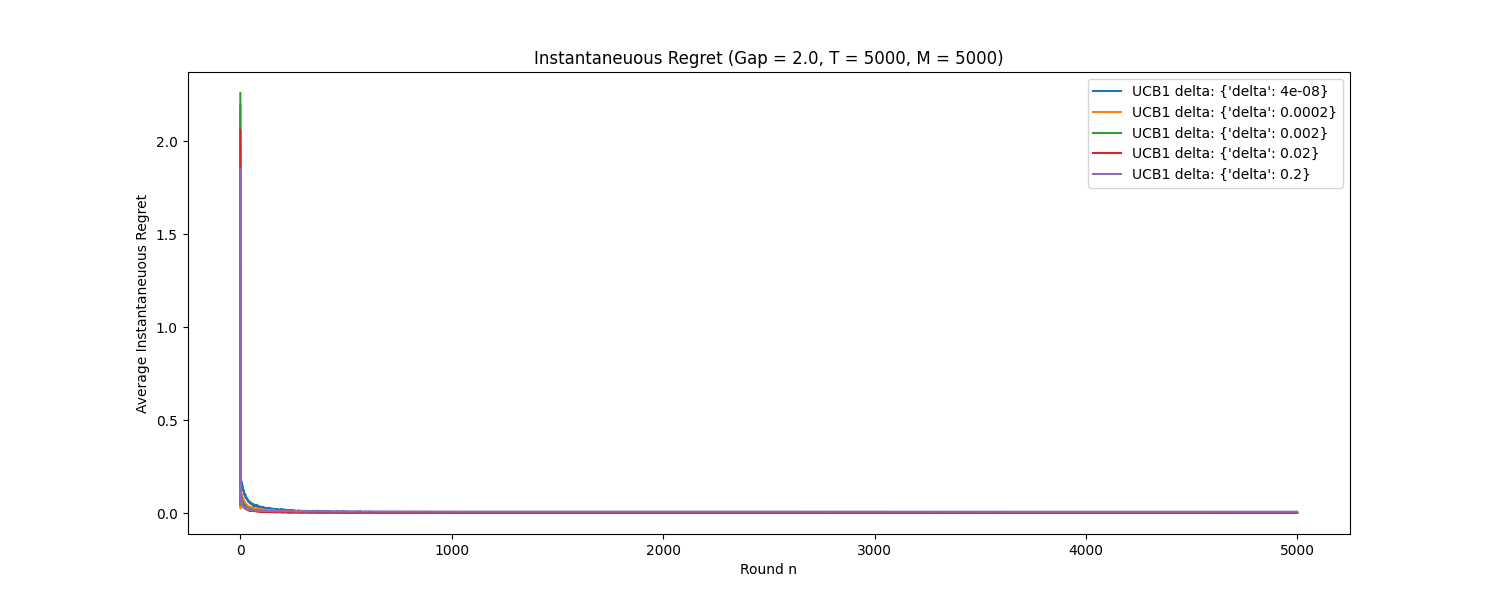
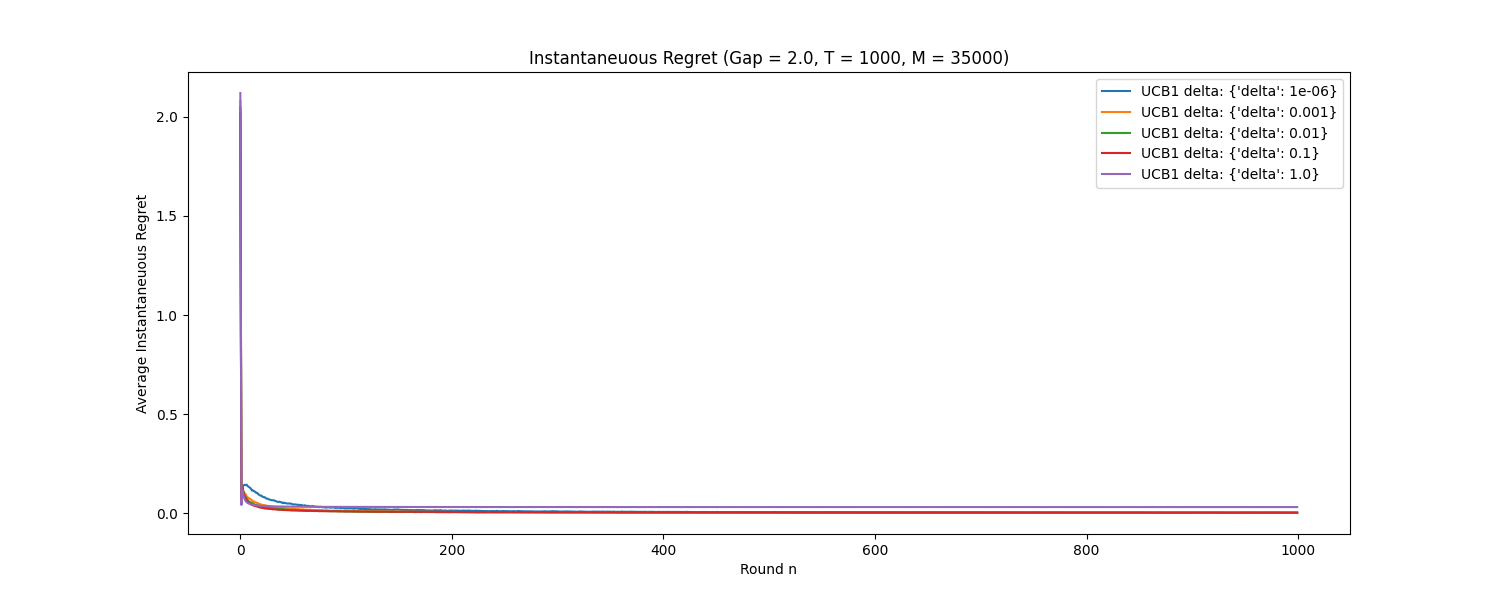
Now finished experiment 1

diff --git a/src/game/game.py b/src/game/game.py
@@ -17,20 +17,35 @@ class Game:
     def compute_averaged_regret(self, hyperparameter):
         for i in range(self.data_generating_mechanism.get_M()):
             self.accumulated_regret[i, :] = self.simulate_one_run(hyperparameter)
-            #if i % 500 == 0:
-            #    print('m = {:d}'.format(i))
+            if i % 5000 == 0:
+                print('m = {:d}'.format(i))
+            
+        self.compute_regret_sub()    
         print('Average Regret of delta {} over {} runs calculated (median: {} mean: {} std: {})'
               .format(self.data_generating_mechanism.delta, 
-                      self.data_generating_mechanism.get_M(),
-                      np.median(self.accumulated_regret, axis=0)[self.data_generating_mechanism.get_T() - 1],
-                      np.mean(self.accumulated_regret, axis=0)[self.data_generating_mechanism.get_T() - 1], 
-                      np.std(self.get_regret_final()) / np.sqrt(self.data_generating_mechanism.get_M())))
+                      self.data_generating_mechanism.prior_samples,
+                      np.median(self.regret_sub_mean),
+                      np.mean(self.regret_sub_mean), 
+                      np.std(self.regret_sub_mean) / np.sqrt(self.data_generating_mechanism.prior_samples)))
+        
+    def compute_regret_sub(self):
+        self.regret_final = self.get_regret_final()
+        self.regret_sub_mean = np.zeros(self.data_generating_mechanism.prior_samples)
+        self.accumulated_regret_sub = np.zeros(shape=(self.data_generating_mechanism.prior_samples, self.data_generating_mechanism.get_T()))
+        for i in range(self.data_generating_mechanism.prior_samples):
+            start_ind = i*self.data_generating_mechanism.prior_repeats
+            end_ind = (i+1)*self.data_generating_mechanism.prior_repeats - 1
+            self.regret_sub_mean[i] = np.mean(self.regret_final[start_ind:end_ind])
+            self.accumulated_regret_sub[i,:] = np.mean(self.accumulated_regret[start_ind:end_ind,:], axis=0)
+        print("Quantiles (25, 50, 75, 90, 99)")
+        print(np.quantile(self.regret_sub_mean, [0.25, 0.5, 0.75, 0.9, 0.99]))
+
 
     def get_averaged_regret(self):
-        return np.mean(self.accumulated_regret, axis=0)
+        return np.mean(self.accumulated_regret_sub, axis=0)
     
     def get_median_regret(self):
-        return np.median(self.accumulated_regret, axis=0)
+        return np.median(self.accumulated_regret_sub, axis=0)
     
     def get_regret_final(self):
         return self.accumulated_regret[:, self.data_generating_mechanism.get_T() - 1]

diff --git a/src/data_generating_mechanism/ucb_gap_mechanism.py b/src/data_generating_mechanism/ucb_gap_mechanism.py
@@ -3,7 +3,7 @@ from numpy import random
 from data_generating_mechanism.data_generating_mechanism import Data_Generating_Mechanism
 
 class UCB_Gap_Mechanism(Data_Generating_Mechanism):   
-    def __init__(self, gap, reward_sd, time_horizon, prior_samples = 100, prior_repeats = 50, must_update_statistics = True):
+    def __init__(self, gap, reward_sd, time_horizon, prior_samples = 700, prior_repeats = 50, must_update_statistics = True):
         self.d = 2
         self.mustUpdateStatistics = True
         self.gap = gap
@@ -11,7 +11,7 @@ class UCB_Gap_Mechanism(Data_Generating_Mechanism):
         self.prior_samples = prior_samples
         self.prior_repeats = prior_repeats
         self.problems_sampled = np.zeros(shape = (self.prior_samples * self.prior_repeats, 2))
-        self.current_M = self.prior_repeats * self.prior_samples
+        self.current_M = (self.prior_repeats * self.prior_samples)
         super().__init__(time_horizon = time_horizon, 
                          mu_arms = np.zeros(shape = self.d), 
                          num_runs = prior_samples * prior_repeats, 

diff --git a/src/play_ground/play_ground.py b/src/play_ground/play_ground.py
@@ -19,7 +19,7 @@ class PlayGround:
                                                 self.games[i].data_generating_mechanism.get_T()))
             med_regret = np.zeros(shape = (len(self.hyperparameters[i]), 
                                                 self.games[i].data_generating_mechanism.get_T()))
-            regret_final = np.zeros(shape = (self.games[i].data_generating_mechanism.get_T(),
+            regret_final = np.zeros(shape = (self.games[i].data_generating_mechanism.get_M(),
                                              len(self.hyperparameters[i])))
             instantaneuous_regret = np.zeros(shape = (len(self.hyperparameters[i]), 
                                                 self.games[i].data_generating_mechanism.get_T()))

diff --git a/scripts/stat_900_experiment_1.py b/scripts/stat_900_experiment_1.py
@@ -18,7 +18,7 @@ HIGH_GAP = 2.00
 MEDIUM_GAP = 0.5
 LOW_GAP = 0.05
 VERY_LOW_GAP = 0.005
-T = 5000
+T = 1000
 
 print("High Gap Experiment")
 
@@ -26,7 +26,7 @@ print("High Gap Experiment")
 data_job = UCB_Gap_Mechanism(gap = HIGH_GAP, reward_sd=1, time_horizon=T)
 ucb_hyperparameters = [{'delta': 1/(T**2)}, 
                        {'delta': 1/T},
-                       {'delta': 10/T}, 
+                       {'delta': 1/np.sqrt(T)}, 
                        {'delta': 100/T},
                        {'delta': 1000/T}]
 partial_info_ground = Partial_Info_Play_Ground(bandit_algorithms=[Linear_Gaussian_UCB(data_job, "UCB1")],
